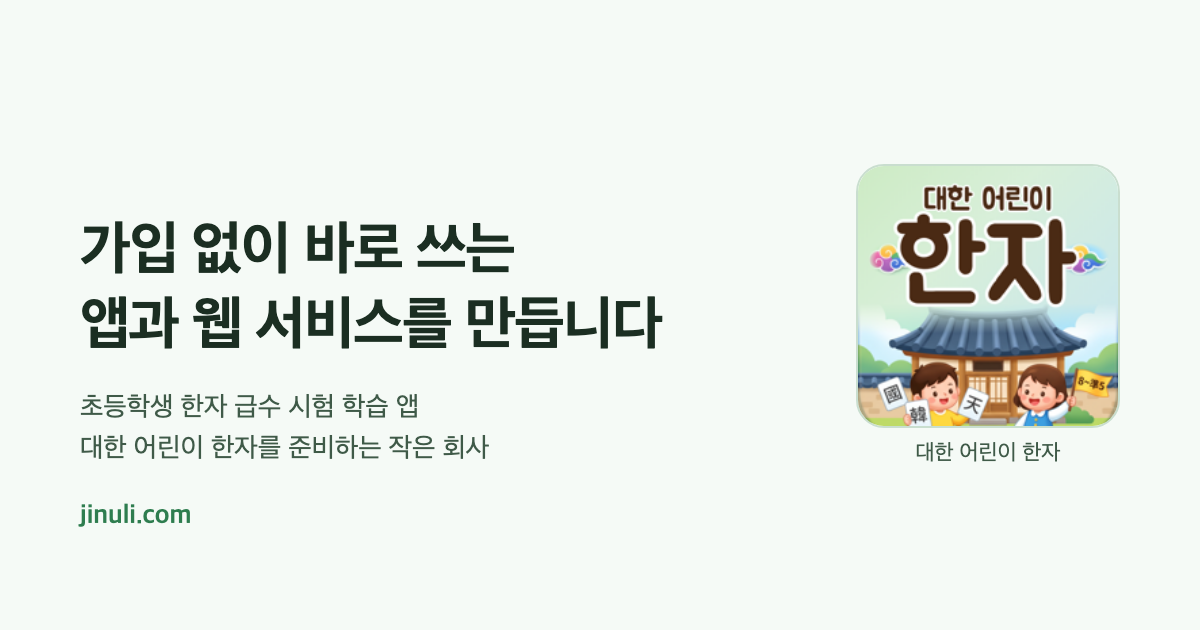
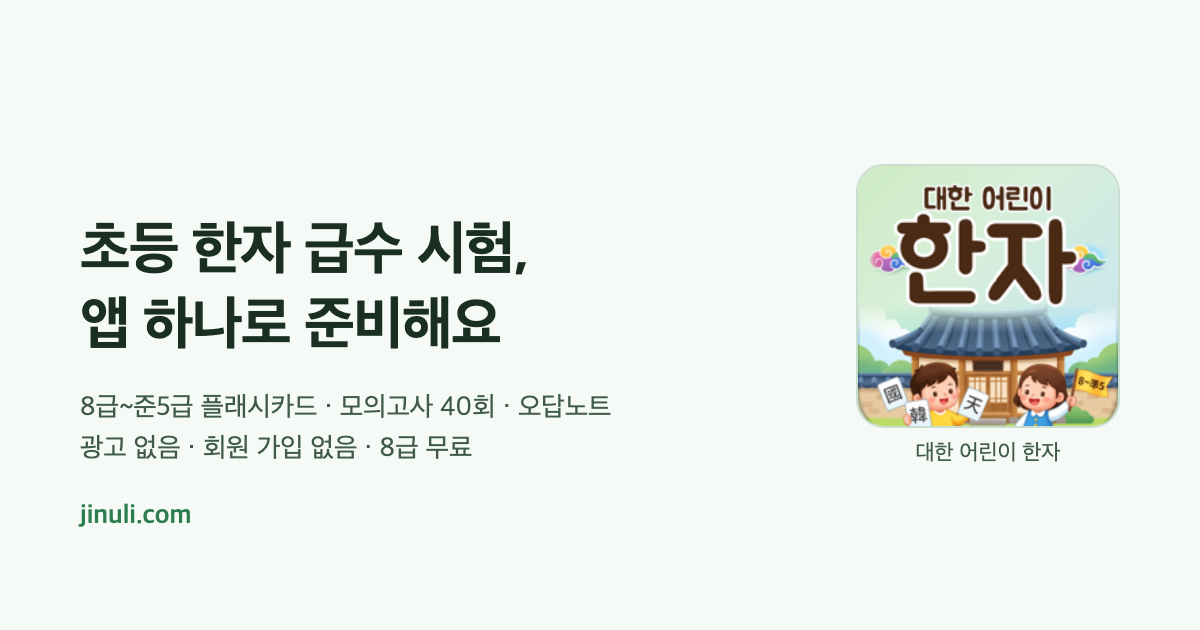
feat(home): 홈을 대한 어린이 한자 랜딩으로 — 검색어 제목·앱 화면 4장·급수별 분량 표·무료/유료·검색형 FAQ·MobileApplication 구조화 데이터·OG 썸네일, 방침·404 제목을 h1 로

Changed region(s): [[0.0617, 0.3317, 0.555, 0.573], [0.0617, 0.6032, 0.5242, 0.6635], [0.0617, 0.6937, 0.4008, 0.754]]

diff --git a/src/pages/home/ui/HomePage.tsx b/src/pages/home/ui/HomePage.tsx
@@ -1,17 +1,30 @@
 import { COMPANY } from '@entities/company';
 import { FAQ } from '@entities/faq';
-import { SERVICES } from '@entities/service';
+import { LEVELS } from '@entities/hanja';
+import { DAEHAN_KIDS_HANJA_PRICING as P, findService } from '@entities/service';
 import { Seo, faqPageJsonLd, type JsonLd } from '@shared/lib/seo';
 import { SITE } from '@shared/config/site';
 import { PageSection } from '@shared/ui';
 import { KRDSButton } from '@shared/ui/krds';
 import { Faq } from '@widgets/faq';
+import { LevelFormatTable } from '@widgets/level-format-table';
 import { ServiceMark, ServiceShowcase } from '@widgets/service-showcase';
 import './HomePage.scss';
 
 const ORG_ID = `${SITE.url}/#organization`;
+const APP = findService('daehan-kids-hanja')!;
 
-/** 첫 화면의 구조화 데이터: 회사, 이 사이트, 서비스(웹은 WebSite·앱은 SoftwareApplication), FAQ. 값은 모두 entities 에서 온다. */
+/** 앱 화면 4장. 원본은 앱 리포 설계/스토어/스크린샷(1080×1920), 540px 로 줄여 public/screens 에 둔다. */
+const SCREENS = [
+  { src: '/screens/home.png', caption: '홈 — 급수를 고르고 바로 시작' },
+  { src: '/screens/study.png', caption: '한자 공부 — 급수별 한자 목록과 훈음' },
+  { src: '/screens/exam.png', caption: '모의고사 — 실제 시험과 같은 문항 수·제한 시간' },
+  { src: '/screens/review.png', caption: '해설 — 틀린 문제만 골라 보기' },
+];
+
+const TOTAL_QUESTIONS = LEVELS.reduce((n, l) => n + l.questionBank, 0);
+
+/** 첫 화면의 구조화 데이터: 회사, 이 사이트, 앱(MobileApplication, 무료 + 일회성 결제), FAQ. 값은 모두 entities 에서 온다. */
 const HOME_JSON_LD: JsonLd[] = [
   {
     '@type': 'Organization',
@@ -25,50 +38,95 @@ const HOME_JSON_LD: JsonLd[] = [
     contactPoint: { '@type': 'ContactPoint', email: COMPANY.email, contactType: 'customer support', availableLanguage: 'ko' },
   },
   { '@type': 'WebSite', url: `${SITE.url}/`, name: SITE.name, inLanguage: 'ko', publisher: { '@id': ORG_ID } },
-  ...SERVICES.map<JsonLd>((s) =>
-    s.kind === 'web'
-      ? { '@type': 'WebSite', url: s.url, name: s.name, description: s.summary, publisher: { '@id': ORG_ID } }
-      : {
-          '@type': 'SoftwareApplication',
-          name: s.name,
-          applicationCategory: 'EducationalApplication',
-          operatingSystem: s.platforms.replace('안드로이드', 'Android').replace(' · ', ', '),
-          description: s.summary,
-          url: `${SITE.url}/#services`,
-          author: { '@id': ORG_ID },
-        },
-  ),
+  {
+    '@type': 'MobileApplication',
+    name: APP.name,
+    applicationCategory: 'EducationalApplication',
+    applicationSubCategory: '한자 급수 시험 학습',
+    operatingSystem: 'Android, iOS',
+    inLanguage: 'ko',
+    description: APP.summary,
+    image: `${SITE.url}${APP.icon}`,
+    url: `${SITE.url}/#app`,
+    ...(APP.url ? { installUrl: APP.url } : {}),
+    isAccessibleForFree: true,
+    offers: [
+      { '@type': 'Offer', price: '0', priceCurrency: 'KRW', description: `${P.freeLevel} 전체와 다른 급수의 ${P.freeInPaidLevels}` },
+      { '@type': 'Offer', name: P.unlockName, price: String(P.unlockPriceKrw), priceCurrency: 'KRW', description: '7급·6급·준5급 전체, 일회성 결제' },
+    ],
+    author: { '@id': ORG_ID },
+    publisher: { '@id': ORG_ID },
+  },
   faqPageJsonLd(FAQ.map((f) => ({ question: f.question, answer: f.answer }))),
 ];
 
 export function HomePage() {
   return (
     <>
-      <Seo title={SITE.name} path="/" description={SITE.defaultDescription} jsonLd={HOME_JSON_LD} />
+      <Seo title="대한 어린이 한자, 초등 한자 급수 시험 학습 앱" path="/" description={SITE.defaultDescription} jsonLd={HOME_JSON_LD} />
 
       <section className="home-hero" aria-labelledby="hero-title">
         <div className="home-hero-in">
           <div>
-            <h2 id="hero-title" className="home-hero-title">가입 없이 바로 쓰는<br />앱과 웹 서비스를<br />만듭니다.</h2>
-            <p className="home-hero-lead">{COMPANY.name}는 회원 가입 없이 바로 쓰는 서비스를 직접 만들고 운영하는 작은 회사입니다. 지금은 초등학생 한자 급수 시험 학습 앱 "대한 어린이 한자"를 준비하고 있습니다.</p>
+            <h1 id="hero-title" className="home-hero-title">초등학생 한자 급수 시험,<br />앱 하나로 준비하는<br />대한 어린이 한자</h1>
+            <p className="home-hero-lead">
+              대한검정회 한자급수자격검정 8급·7급·6급·준5급을 준비하는 초등학생을 위한 학습 앱입니다. 급수별 한자를 플래시카드로 외우고, 실제 시험과 같은 문항 수와 제한 시간으로 모의고사 40회를 풉니다. 광고 없음, 회원 가입 없음, {P.freeLevel} 무료.
+            </p>
             <p className="home-hero-actions">
-              <KRDSButton to="/#services" variant="primary" size="large">만드는 서비스 보기</KRDSButton>
-              <KRDSButton to="/#contact" variant="secondary" size="large">문의하기</KRDSButton>
+              {APP.url ? (
+                <KRDSButton href={APP.url} variant="primary" size="large">앱 설치하기</KRDSButton>
+              ) : (
+                <KRDSButton to="/#app" variant="primary" size="large">앱 자세히 보기</KRDSButton>
+              )}
+              <KRDSButton to="/hanja/" variant="secondary" size="large">급수별 한자 보기</KRDSButton>
             </p>
           </div>
-          <ul className="home-hero-marks" aria-label="서비스 마크">
-            {SERVICES.map((s) => (
-              <li key={s.slug}>
-                <ServiceMark service={s} size="large" />
-                <span className="home-hero-mark-name">{s.name}</span>
-              </li>
-            ))}
-          </ul>
+          <div className="home-hero-mark">
+            <ServiceMark service={APP} size="large" />
+            <span className="home-hero-mark-name">{APP.name}</span>
+          </div>
         </div>
       </section>
 
-      <PageSection id="services" title="만드는 서비스" tone="emphasis">
-        {SERVICES.map((s) => <ServiceShowcase key={s.slug} service={s} />)}
+      <PageSection id="app" title="앱 소개" tone="emphasis">
+        <ServiceShowcase service={APP} />
+        <p className="home-note">대한 어린이 한자는 대한검정회 한자급수자격검정을 준비하기 위한 비공식 학습 앱이며, 대한검정회와 관련이 없습니다. 문항은 자체 제작했습니다.</p>
+      </PageSection>
+
+      <PageSection id="screens" title="앱 화면">
+        <ul className="home-screens">
+          {SCREENS.map((s) => (
+            <li key={s.src}>
+              <figure>
+                <img src={s.src} alt={`${APP.name} ${s.caption}`} width={540} height={960} loading="lazy" />
+                <figcaption>{s.caption}</figcaption>
+              </figure>
+            </li>
+          ))}
+        </ul>
+      </PageSection>
+
+      <PageSection id="levels" title="급수별 분량과 시험 형식">
+        <p>
+          급수마다 한자가 누적되고 문항 수와 시간이 늘어납니다. 앱에는 급수별 모의고사 10회(모두 40회)와 문항 {TOTAL_QUESTIONS.toLocaleString('ko-KR')}개가 들어 있습니다. 급수 이름을 누르면 그 급수의 배정 한자 전체를 볼 수 있습니다.
+        </p>
+        <LevelFormatTable linkLevels />
+        <p className="home-note">
+          앱 문항 수: {LEVELS.map((l) => `${l.name} ${l.questionBank.toLocaleString('ko-KR')}개`).join(' · ')}. 2026년 일부 급수 시험 시간이 바뀐다는 안내가 있으니 접수 전 공식 시간표를 확인하세요.
+        </p>
+      </PageSection>
+
+      <PageSection id="price" title="무료와 유료">
+        <dl className="home-info">
+          <dt>{P.freeLevel}</dt><dd>한자 공부, 플래시카드, 유형별 연습, 모의고사 10회 모두 무료</dd>
+          <dt>7급·6급·준5급</dt><dd>{P.freeInPaidLevels} 무료. 나머지 플래시카드·유형별 연습·모의고사 2~10회는 아래 결제로 열림</dd>
+          <dt>{P.unlockName}</dt><dd>{P.unlockPriceKrw.toLocaleString('ko-KR')}원 한 번 결제(구독 아님). 7급·6급·준5급이 모두 열림. 결제 전 보호자 확인({P.parentalGate})</dd>
+          <dt>그 밖에</dt><dd>광고 없음, 회원 가입·로그인 없음, 개인정보 수집 없음. 인터넷 없이 공부할 수 있음(결제·구매 확인에만 사용)</dd>
+        </dl>
+      </PageSection>
+
+      <PageSection id="faq" title="자주 묻는 질문">
+        <Faq />
       </PageSection>
 
       <PageSection id="company" title="회사">
@@ -80,12 +138,8 @@ export function HomePage() {
         </dl>
       </PageSection>
 
-      <PageSection id="faq" title="자주 묻는 질문">
-        <Faq />
-      </PageSection>
-
       <PageSection id="contact" title="문의">
-        <p>서비스 이용, 개인정보, 제휴에 관한 문의는 이메일로 보내 주세요. 보통 영업일 기준 3일 안에 답장합니다.</p>
+        <p>앱 이용, 개인정보, 제휴에 관한 문의는 이메일로 보내 주세요. 보통 영업일 기준 3일 안에 답장합니다.</p>
         <p className="home-contact">
           <KRDSButton href={`mailto:${COMPANY.email}`} variant="secondary" size="large">{COMPANY.email}</KRDSButton>
         </p>

diff --git a/src/entities/faq/model/faq.ts b/src/entities/faq/model/faq.ts
@@ -1,4 +1,6 @@
-/** 자주 묻는 질문. 답은 서비스 소개(entities/service)와 방침(entities/privacy-policy)에 있는 사실만 쓴다. 바뀌면 여기만 고친다. */
+/** 자주 묻는 질문. 답은 서비스 소개(entities/service)·급수 데이터(entities/hanja)·방침(entities/privacy-policy)에 있는 사실만 쓴다. 바뀌면 여기만 고친다. */
+import { DAEHAN_KIDS_HANJA_PRICING as P } from '@entities/service';
+
 export interface FaqItem {
   question: string;
   /** 본문. 구조화 데이터(FAQPage)에도 이 글자 그대로 들어간다. */
@@ -9,27 +11,48 @@ export interface FaqItem {
 
 export const FAQ: FaqItem[] = [
   {
-    question: '지누리컴퍼니는 무엇을 하는 회사인가요?',
+    question: '한자 급수 시험 8급은 몇 문제를 몇 분 안에 푸나요? 합격 점수는요?',
     answer:
-      '회원 가입 없이 바로 쓰는 앱과 웹 서비스를 직접 만들고 운영하는 작은 회사입니다. 지금은 초등학생이 대한검정회 한자급수 시험을 준비하는 학습 앱 "대한 어린이 한자"를 만들고 있습니다.',
-    link: { label: '만드는 서비스 보기', to: '/#services' },
+      '8급과 7급은 25문항을 15분 안에 풀고, 6급과 준5급은 50문항을 25분 안에 풉니다. 모두 객관식이고 100점 만점에 70점 이상이면 합격입니다. 8급·7급은 문항당 4점이라 18문항, 6급·준5급은 문항당 2점이라 35문항을 맞히면 됩니다. 대한 어린이 한자 앱의 모의고사는 이 문항 수와 제한 시간을 그대로 따릅니다.',
+    link: { label: '급수별 시험 형식 보기', to: '/hanja/' },
+  },
+  {
+    question: '한자 8급은 몇 글자를 외우나요? 7급·6급·준5급은요?',
+    answer:
+      '8급은 30자, 7급은 50자(8급 30자에 새로 20자), 6급은 70자(새로 20자), 준5급은 100자(새로 30자)입니다. 급수가 오르면 아래 급수 한자가 그대로 시험 범위에 들어갑니다. 급수별 배정 한자의 훈·음, 획수, 뜻, 낱말은 이 사이트의 급수별 한자 페이지에서 볼 수 있습니다.',
+    link: { label: '8급 배정 한자 30자 보기', to: '/hanja/8/' },
+  },
+  {
+    question: '대한 어린이 한자는 무료인가요? 가격은 얼마인가요?',
+    answer: `${P.freeLevel}은 전부 무료입니다. 7급·6급·준5급은 ${P.freeInPaidLevels}가 무료이고, 나머지 플래시카드·유형별 연습·모의고사 2~10회는 "${P.unlockName}" 한 번 결제(${P.unlockPriceKrw.toLocaleString('ko-KR')}원)로 모두 열립니다. 구독이 아니라 한 번만 내면 됩니다. 결제 전에 보호자 확인(${P.parentalGate})이 있습니다.`,
+    link: { label: '앱 소개 보기', to: '/#app' },
   },
   {
     question: '"대한 어린이 한자" 앱은 언제 나오나요?',
     answer:
-      '출시 준비 중입니다. 대한검정회 한자급수자격검정 8급부터 준5급까지 다루는 비공식 학습 앱으로, 안드로이드와 iOS 스토어에 올라가면 이 사이트의 "만드는 서비스" 절에 설치 링크를 넣고 안내합니다. 광고와 회원 가입이 없고 인터넷 없이 동작합니다.',
+      '출시 준비 중입니다. 대한검정회 한자급수자격검정 8급부터 준5급까지 다루는 비공식 학습 앱으로, 안드로이드와 iOS 스토어에 올라가면 이 사이트 첫 화면에 설치 링크를 넣고 안내합니다. 광고와 회원 가입이 없고 인터넷 없이 동작합니다.',
     link: { label: '대한 어린이 한자 개인정보처리방침', to: '/privacy/daehan-kids-hanja/' },
+  },
+  {
+    question: '대한검정회 공식 앱인가요?',
+    answer:
+      '아니요. 대한 어린이 한자는 대한검정회 한자급수자격검정을 준비하기 위한 비공식 학습 앱이며, 대한검정회와 관련이 없습니다. 문항은 모두 자체 제작했습니다. 시험 접수, 일정, 최신 시험 시간은 대한검정회 공식 안내에서 확인하세요.',
   },
   {
     question: '광고나 회원 가입이 있나요? 개인정보는 어떻게 되나요?',
     answer:
-      '회원 가입이 없습니다. 대한 어린이 한자 앱은 광고도 없고 개인정보를 수집하지 않으며, 유료 기능은 스토어 결제로 한 번만 삽니다. 이 웹사이트는 방문 통계 외에 방문자가 입력하는 개인정보를 받지 않습니다. 자세한 내용은 서비스별 개인정보처리방침에 있습니다.',
+      '회원 가입이 없습니다. 대한 어린이 한자 앱은 광고도 없고 개인정보를 수집하지 않으며, 유료 기능은 스토어 결제로 한 번만 삽니다. 이 웹사이트는 방문 통계 외에 방문자가 입력하는 개인정보를 받지 않습니다.',
     link: { label: '개인정보처리방침 목록', to: '/privacy/' },
   },
   {
-    question: '어디로 문의하나요?',
+    question: '지누리컴퍼니는 무엇을 하는 회사인가요?',
     answer:
-      '회사, 앱, 개인정보에 관한 문의는 admin@jinuli.com 으로 보내 주세요. 영업일 기준 3일 안에 답장합니다.',
+      '회원 가입 없이 바로 쓰는 앱과 웹 서비스를 직접 만들고 운영하는 작은 회사입니다. 지금은 초등학생이 대한검정회 한자급수 시험을 준비하는 학습 앱 "대한 어린이 한자"를 만들고 있습니다.',
+    link: { label: '회사 정보 보기', to: '/#company' },
+  },
+  {
+    question: '어디로 문의하나요?',
+    answer: '회사, 앱, 개인정보에 관한 문의는 admin@jinuli.com 으로 보내 주세요. 영업일 기준 3일 안에 답장합니다.',
     link: { label: '문의하기', to: '/#contact' },
   },
 ];

diff --git a/src/pages/home/ui/HomePage.scss b/src/pages/home/ui/HomePage.scss
@@ -36,22 +36,28 @@
   dt { color: var(--krds-light-color-text-subtle); }
   dd { margin: 0; }
 }
-// 첫 화면 오른쪽: 서비스 마크 4개(2×2). 마크 타일 자체는 widgets/service-showcase 의 .service-mark.
-.home-hero-marks {
-  list-style: none;
-  margin: 0;
-  padding: 0;
-  display: grid;
-  grid-template-columns: repeat(2, auto);
-  gap: var(--krds-gap-6) var(--krds-gap-8);
-  li { display: flex; flex-direction: column; align-items: center; gap: var(--krds-gap-3); }
-}
+// 첫 화면 오른쪽: 앱 마크 하나. 마크 타일 자체는 widgets/service-showcase 의 .service-mark.
+.home-hero-mark { display: flex; flex-direction: column; align-items: center; gap: var(--krds-gap-3); }
 .home-hero-mark-name { font-size: var(--krds-pc-font-size-body-small); color: var(--krds-light-color-text-subtle); white-space: nowrap; }
 .home-contact { margin: var(--krds-gap-7) 0 0; }
+.home-note { margin: var(--krds-gap-5) 0 0; color: var(--krds-light-color-text-subtle); font-size: var(--krds-pc-font-size-body-small); }
+// 앱 화면 4장. 세로 폰 화면이라 4열, 모바일 2열.
+.home-screens {
+  list-style: none; margin: 0; padding: 0;
+  display: grid; grid-template-columns: repeat(4, 1fr); gap: var(--krds-gap-6);
+  figure { margin: 0; }
+  img {
+    display: block; width: 100%; height: auto;
+    border: var(--krds-light-border-width-static-regular) solid var(--krds-light-color-border-gray-light);
+    border-radius: var(--krds-radius-large1);
+  }
+  figcaption { margin: var(--krds-gap-3) 0 0; color: var(--krds-light-color-text-subtle); font-size: var(--krds-pc-font-size-body-small); }
+}
 @media (max-width: 767px) {
   .home-hero { padding-top: var(--krds-padding-8); }
   .home-hero-in { grid-template-columns: 1fr; gap: var(--krds-gap-8); }
-  .home-hero-marks { justify-content: start; gap: var(--krds-gap-5) var(--krds-gap-7); }
+  .home-hero-mark { align-items: start; }
+  .home-screens { grid-template-columns: repeat(2, 1fr); gap: var(--krds-gap-4); }
   .home-hero-mark-name { font-size: var(--krds-mobile-font-size-body-small); }
   .home-hero-title { font-size: var(--krds-mobile-font-size-display-small); }
   .home-hero-lead { font-size: var(--krds-mobile-font-size-body-large); }

diff --git a/src/shared/config/site.ts b/src/shared/config/site.ts
@@ -2,7 +2,7 @@
 export const SITE = {
   url: 'https://jinuli.com',
   name: '지누리컴퍼니',
-  defaultDescription: '지누리컴퍼니는 회원 가입 없이 바로 쓰는 앱과 웹 서비스를 만듭니다. 초등학생 한자 급수 시험 학습 앱 대한 어린이 한자를 준비하고 있습니다.',
+  defaultDescription: '초등학생 한자 급수 시험(8급·7급·6급·준5급) 학습 앱 대한 어린이 한자. 급수별 한자 플래시카드, 실제 시험과 같은 모의고사 40회, 오답노트. 8급 무료, 광고·회원 가입 없음. 지누리컴퍼니가 만듭니다.',
   /** SNS 공유 썸네일(1200×630). scripts/make-images.mjs 가 public/og.png 를 만든다. */
   ogImage: { path: '/og.png', width: 1200, height: 630 },
   /** 구글 태그 관리자 컨테이너. vite.config.ts 가 빌드 때만 index.html 에 넣는다(개발 서버 방문은 통계에 안 섞이게). 비우면 안 넣는다. */

diff --git a/src/pages/privacy-index/ui/PrivacyIndexPage.tsx b/src/pages/privacy-index/ui/PrivacyIndexPage.tsx
@@ -20,7 +20,7 @@ export function PrivacyIndexPage() {
       <div className="policy-wrap">
         <KRDSBreadcrumb items={[{ label: '개인정보처리방침' }]} />
         <article className="policy">
-          <h2 className="policy-title">개인정보처리방침</h2>
+          <h1 className="policy-title">개인정보처리방침</h1>
           <p className="policy-meta">앱과 웹 서비스마다 방침을 따로 두고, 이 웹사이트의 방침은 별도로 둡니다. 해당 방침을 열어 보세요.</p>
           <div className="policy-body">
             <section>

diff --git a/src/entities/service/model/pricing.ts b/src/entities/service/model/pricing.ts
@@ -1,0 +1,11 @@
+/** 대한 어린이 한자 무료·유료 범위. 출처: 앱 리포 설계/스토어/등록정보.md (가격 2026-10-21 결정, 인앱 상품 full_unlock). */
+export const DAEHAN_KIDS_HANJA_PRICING = {
+  /** 전부 무료인 급수. */
+  freeLevel: '8급',
+  /** 유료 급수에서도 무료로 열리는 것. */
+  freeInPaidLevels: '한자 목록과 모의고사 1회',
+  unlockName: '전체 급수 열기',
+  unlockPriceKrw: 4900,
+  /** 결제 전 보호자 확인 방식. */
+  parentalGate: '두 자리 수 덧셈',
+} as const;

diff --git a/src/widgets/not-found-notice/ui/NotFoundNotice.tsx b/src/widgets/not-found-notice/ui/NotFoundNotice.tsx
@@ -5,7 +5,7 @@ import './NotFoundNotice.scss';
 export function NotFoundNotice() {
   return (
     <div className="not-found">
-      <h2 className="not-found-title">이 주소에는 페이지가 없어요</h2>
+      <h1 className="not-found-title">이 주소에는 페이지가 없어요</h1>
       <p className="not-found-lead">주소가 바뀌었거나 잘못 입력됐을 수 있어요.</p>
       <p className="not-found-actions">
         <KRDSButton to="/" variant="primary" size="large">첫 페이지로 가기</KRDSButton>

diff --git a/src/widgets/policy-article/ui/PolicyArticle.tsx b/src/widgets/policy-article/ui/PolicyArticle.tsx
@@ -19,7 +19,7 @@ export function PolicyArticle({ crumbs, title, meta, summary, sections }: Props)
     <div className="policy-wrap">
       <KRDSBreadcrumb items={crumbs} />
       <article className="policy">
-        <h2 className="policy-title">{title}</h2>
+        <h1 className="policy-title">{title}</h1>
         <p className="policy-meta">{meta}</p>
         <div className="policy-body">
           <p className="policy-summary">{summary}</p>

diff --git a/src/entities/service/index.ts b/src/entities/service/index.ts
@@ -1,2 +1,3 @@
 export { ALL_SERVICES, SERVICES, findService, statusLabel } from './model/services';
+export { DAEHAN_KIDS_HANJA_PRICING } from './model/pricing';
 export type { ServiceInfo, ServiceKind, ServiceStatus } from './model/types';

diff --git a/개발초안_대한어린이한자_SEO홍보사이트_전환_20261030.md b/개발초안_대한어린이한자_SEO홍보사이트_전환_20261030.md
@@ -5,7 +5,7 @@
 - 기준 브랜치·커밋: `main` `990baa3` (대한 어린이 한자만 노출, 2026-10-30). 앱 사실 정보의 원본은 앱 리포 `daehan-kids-hanja` `main` `5406c72` 의 `content/levels.json`·`content/hanja.json`·`설계/스토어/등록정보.md`·`설계/설계문서.md` 3절
 - 대상 화면·파일: `/`(홈 → 앱 랜딩), 신규 `/hanja/`(급수 안내), 신규 `/hanja/{8,7,6,j5}/`(급수별 배정 한자), `src/entities/hanja`(신규), `src/pages/home`, `src/entities/faq`, `src/widgets/site-header`, `src/entry-server.tsx`
 - 근거: 사용자 요청(2026-10-30) "우선 대한 어린이 한자만 남기고 나머지 다 비노출" → 반영 완료(`990baa3`). 이어 "SEO를 정책으로 대한 어린이 한자 홍보를 진행하자", "질문 없이 알아서 진행해줘"
-- 상태: `구현 중`
+- 상태: `구현 완료 — main 0f4e8ff(데이터)·162d95e(급수 페이지)·이번 커밋(홈 랜딩) push (2026-10-30)`. 검증 결과는 7절 끝에 적었다. 남은 것은 9절의 사용자 작업(검색엔진 등록)
 
 ## 1. 결론
 
@@ -84,6 +84,17 @@ jinuli.com 은 더 이상 회사 소개 사이트가 아니라 **앱 "대한 어
 | 배포 | push 뒤 실서버 `index.html` 의 CSS 해시 = 로컬 | 같음 |
 
 테스트는 `entities/hanja` 조회 함수에만 넣는다. 페이지는 기존 방식대로 빌드 산출물·스크린샷으로 본다.
+
+검증 결과 (2026-10-30, 로컬 빌드):
+
+| 항목 | 결과 |
+|---|---|
+| 데이터 | `npm test` 17개 통과(hanja 5개 추가). 신출 30/20/20/30, 누적 30/50/70/100, 훈·음·낱말 빈 항목 0 |
+| 빌드 | lint·tsc·테스트 통과. `dist/hanja/{8,7,6,j5}/index.html` 생성 |
+| 사이트맵 | 9개 URL |
+| head | 홈 title "대한 어린이 한자, 초등 한자 급수 시험 학습 앱 — 지누리컴퍼니", JSON-LD `MobileApplication` 1개(무료·4,900원 offers) |
+| h1 | 홈·급수 안내·급수 4·방침 3·404 모두 h1 1개, 로고 h2 |
+| 화면 | Playwright 1440·390px: 가로 넘침 없음(scrollWidth 1440/391). 급수 표는 모바일에서 표 안 가로 스크롤. 앱 화면 4장 PC 4열·모바일 2열 |
 
 ## 8. 브랜치·반영 계획
 

diff --git a/README.md b/README.md
@@ -5,7 +5,9 @@ React 19 + TypeScript + Vite, FSD 레이어, KRDS(`krds-uiux`) CSS. 빌드하면
 ## 페이지
 | 경로 | 내용 |
 |---|---|
-| `/` | 회사 소개, 만드는 서비스(현재 대한 어린이 한자만 노출, 나머지는 `listed: false`), 회사 정보, 자주 묻는 질문, 문의 |
+| `/` | 대한 어린이 한자 앱 랜딩(앱 소개, 앱 화면, 급수별 분량, 무료·유료, 자주 묻는 질문), 회사 정보, 문의. 다른 서비스는 `listed: false` 로 숨김 |
+| `/hanja/` | 급수별 시험 형식 표와 급수 4개 링크 |
+| `/hanja/{8,7,6,j5}/` | 급수별 배정 한자 표(훈·음·획수·뜻·낱말), 아래 급수 한자, 시험 형식, 앱 안내. 데이터는 `entities/hanja`(앱 리포 `content/hanja.json`·`levels.json` 복사본 — 앱 검수 때 같이 고친다) |
 | `/privacy/` | 개인정보처리방침 목록 |
 | `/privacy/site/` | jinuli.com 웹사이트 개인정보처리방침(구글 애널리틱스 수집·국외 이전 고지) |
 | `/privacy/daehan-kids-hanja/` | 대한 어린이 한자 개인정보처리방침 → 플레이 콘솔·앱스토어 "개인정보처리방침 URL"에 `https://jinuli.com/privacy/daehan-kids-hanja/` |
